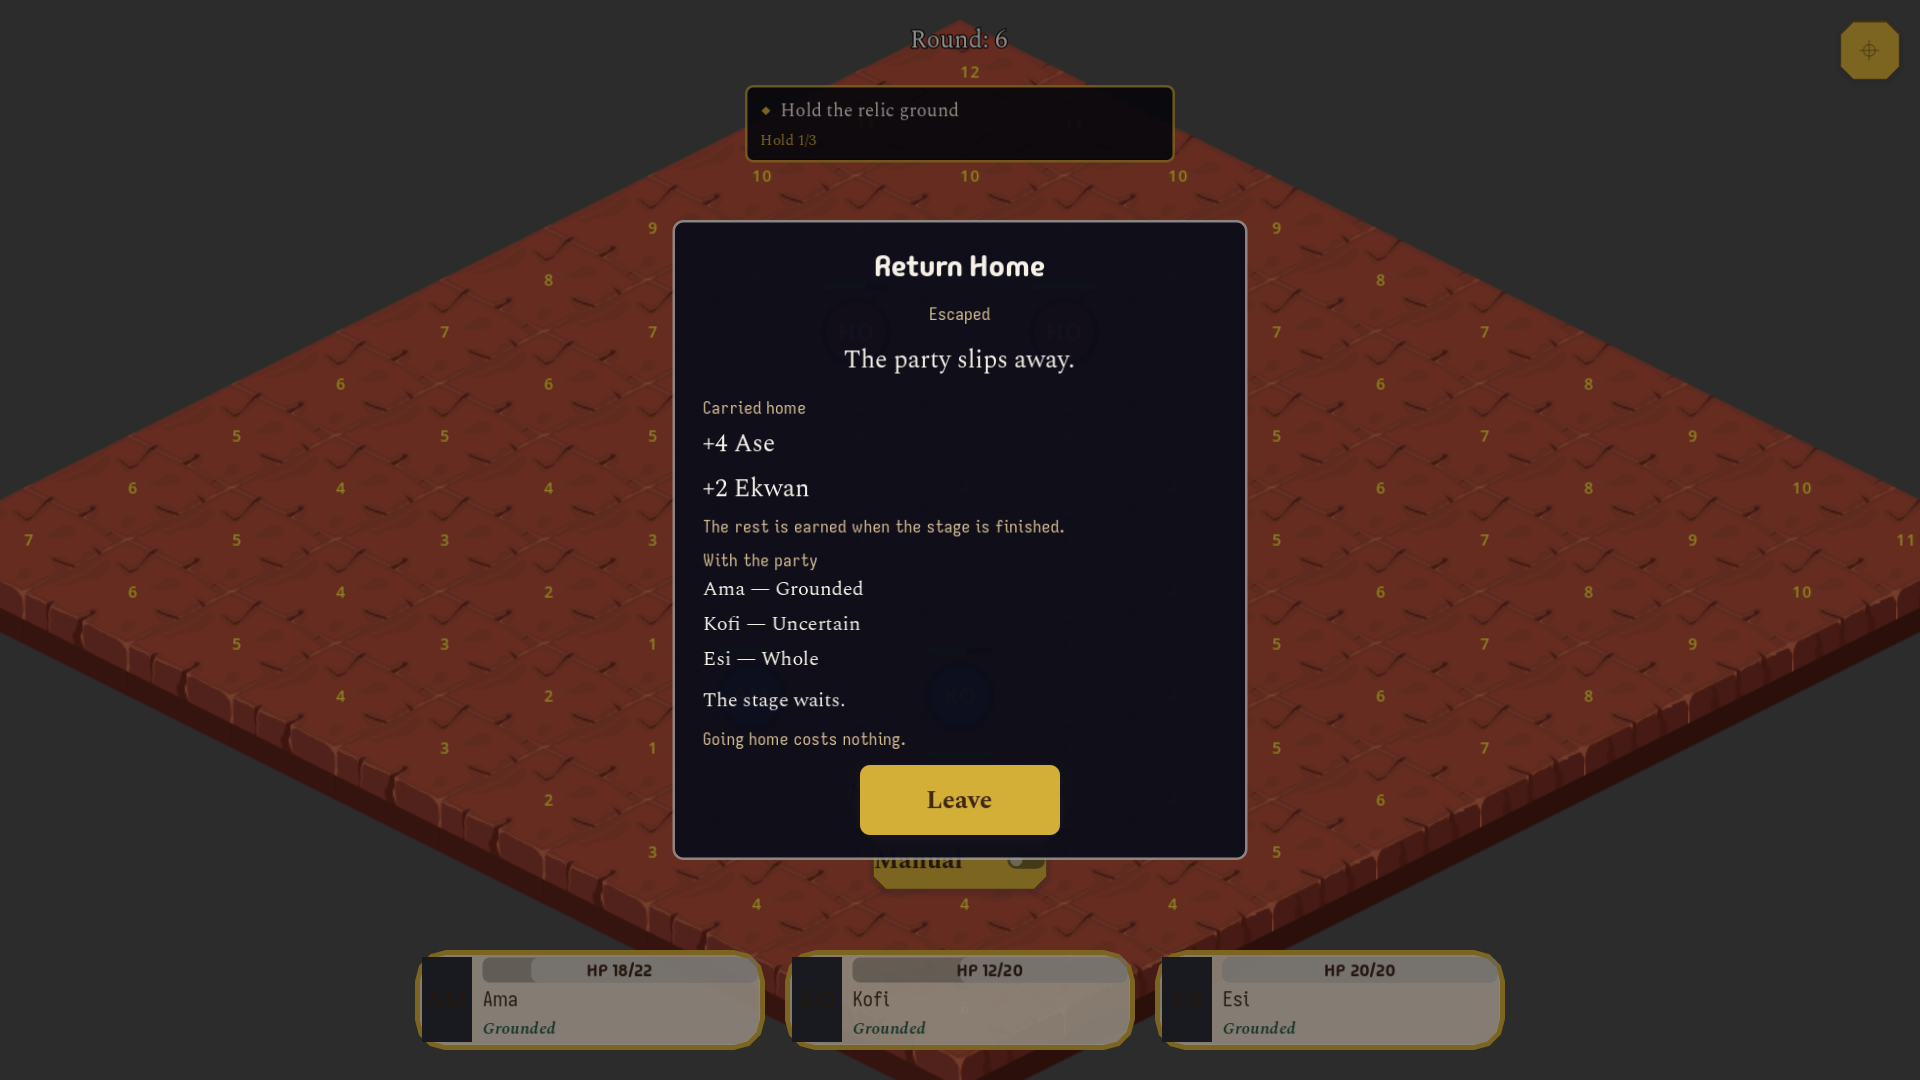
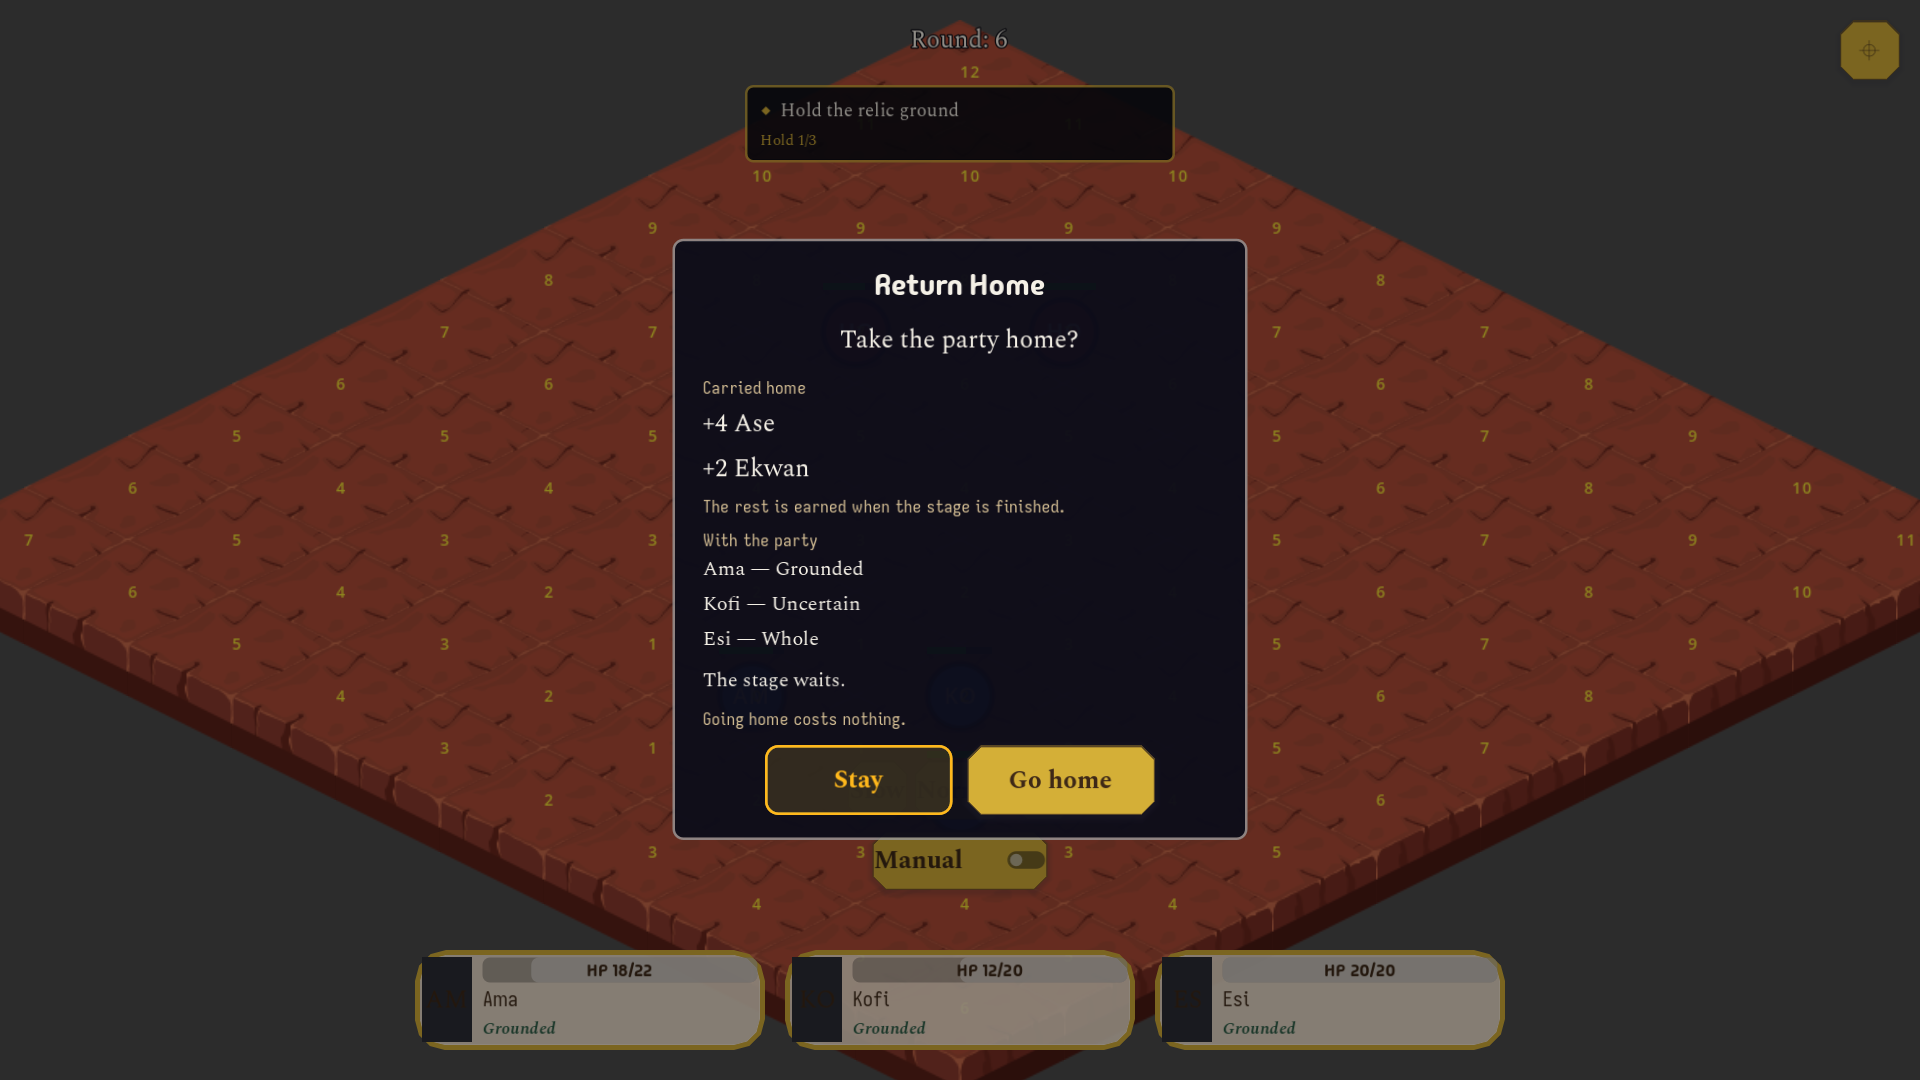
Test the return-home confirmation; rebuild fixtures and screenshots

Changed region(s): [[0.3438, 0.3361, 0.6562, 0.7944], [0.3438, 0.1833, 0.6562, 0.3361]]

diff --git a/docs/stories/v2-payout-explanation/decisions.md b/docs/stories/v2-payout-explanation/decisions.md
@@ -123,3 +123,11 @@ Open for the UI: the return and retreat confirmation can say what is banked now 
 - `echoes_alive` params: `lost` holds every death of the stage so far, and `alive` excludes them. The home sequence reads the params only. A lost name with no row in this fight (a death in an earlier fight) shows once in a note under the rows, and the ledger row drops its own note.
 - Still PROPOSAL placeholder copy (Jeff owns it): "Found and overcome." and the intel line text.
 - GAP for Jeff's copy: no wording exists for a broken Thread, so the Thread line is simply hidden when `thread_whole` is false.
+
+## Return-home confirmation before the action (UI, 2026-10-25)
+
+- Defect: `ReturnHomeModal` showed the carried panel only for `result.success`, but the core writes `return_home_result` only on a FAILED escape (`VentureController.gd`, "Escape failed" branch). A success goes straight to the scout-return card. The panel never showed in production.
+- Fix (Jeff's choice): the Return button on `StageExploreScreen` opens the confirmation first and dispatches nothing. The panel shows `carry_home_preview` (each carried line only above 0) and the comparator (the party and its state, "The stage waits.", "Going home costs nothing."). With 0/0 or no preview it still opens, with the comparator only.
+- Only Confirm sends `stage.return_home`, once (a second press does nothing). Cancel and Esc dispatch nothing and close the panel. Both buttons are 56 px high. Focus starts on Cancel.
+- The failed-escape display is unchanged: "Blocked", no carried figure, Continue sends `stage.dismiss_overlay`.
+- PROPOSAL placeholder copy in `CarriedHomePresentation.gd`: "Take the party home?", "Go home", "Stay".
